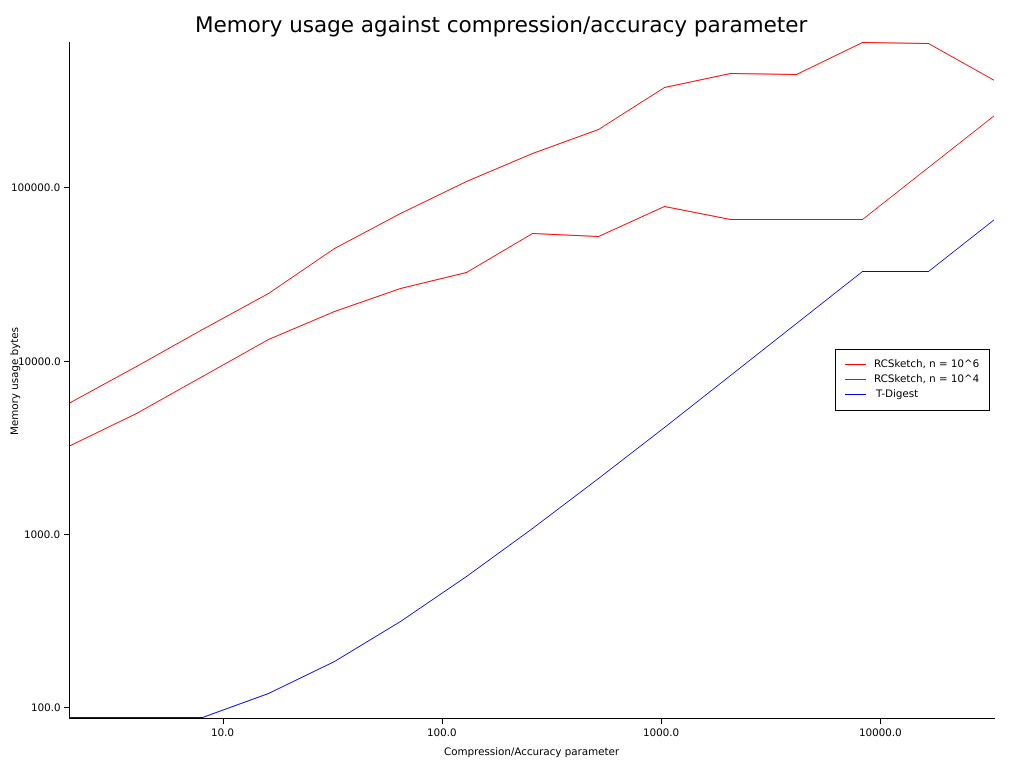
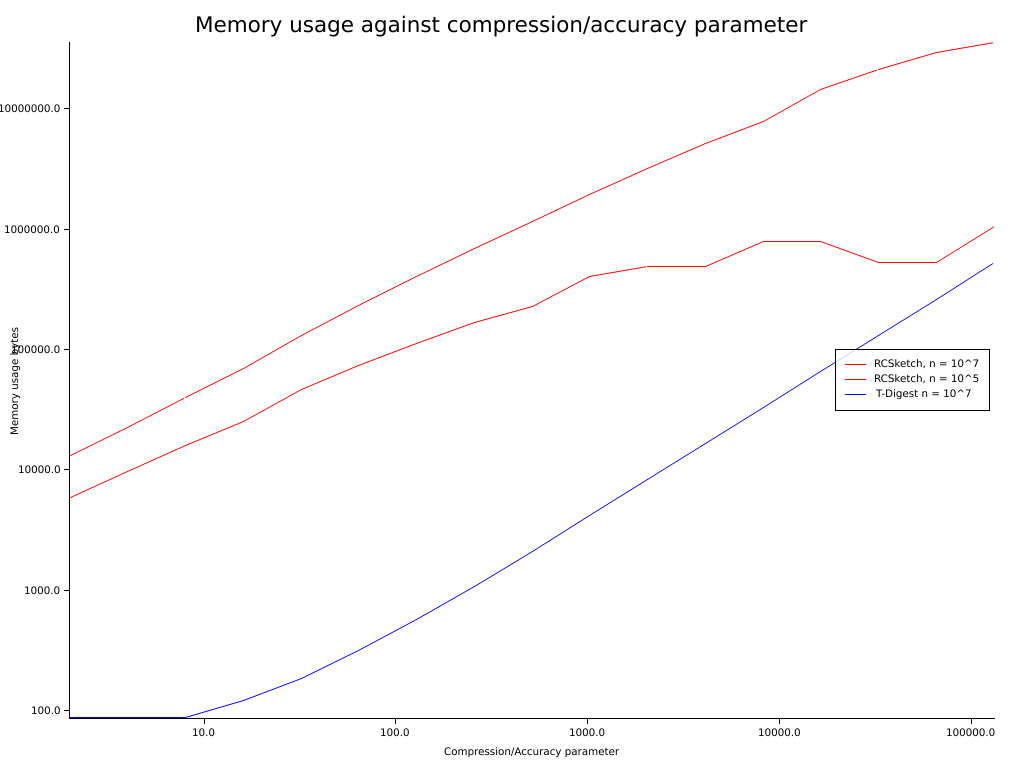
Add average compaction method to rc sketch

diff --git a/src/relative_compactor.rs b/src/relative_compactor.rs
@@ -22,6 +22,12 @@ where
     pub compaction_counters: Vec<u32>,
 }
 
+#[derive(Copy, Debug, Clone)]
+pub enum CompactionMethod {
+    Default,
+    AverageNeighbour,
+}
+
 impl<F> OwnedSize for RCSketch<F>
 where
     F: Float,
@@ -44,7 +50,7 @@ where
 {
     fn add(&mut self, item: F) {
         // Insert into the bottom buffer
-        self.insert_at_rc(item, 0, false);
+        self.insert_at_rc(item, 0, false, CompactionMethod::Default);
         self.count += 1;
     }
 
@@ -53,7 +59,7 @@ where
         // Insert into the bottom buffer
         items
             .chunks(self.buffer_size)
-            .for_each(|chunk| self.insert_at_rc_batch(chunk, 0, false));
+            .for_each(|chunk| self.insert_at_rc_batch(chunk, 0, false, CompactionMethod::Default));
         // for item in items {
         //     self.insert_at_rc(*item, 0, false);
         // }
@@ -158,7 +164,7 @@ where
         return usize::max(
             (F::from(2.0).unwrap()
                 * F::from(k).unwrap()
-                * F::from(input_length / k).unwrap().log2())
+                * F::from(input_length / k).unwrap().log2().ceil())
             .to_usize()
             .unwrap_or(0),
             2 * k,
@@ -191,7 +197,24 @@ where
         // Insert into the bottom buffer
         items
             .chunks(self.buffer_size)
-            .for_each(|chunk| self.insert_at_rc_batch(chunk, 0, true));
+            .for_each(|chunk| self.insert_at_rc_batch(chunk, 0, true, CompactionMethod::Default));
+        self.count += length;
+    }
+
+    /// Insert items into in the sketch
+    /// * `fast_compaction` Enables faster compaction in exchange for potentially increased error
+    /// * `compaction_method` The method with which to compact the removed elements
+    pub fn add_buffer_custom(
+        &mut self,
+        items: &[F],
+        fast_compaction: bool,
+        compaction_method: CompactionMethod,
+    ) {
+        let length = items.len() as u64;
+        // Insert into the bottom buffer
+        items.chunks(self.buffer_size).for_each(|chunk| {
+            self.insert_at_rc_batch(chunk, 0, fast_compaction, compaction_method)
+        });
         self.count += length;
     }
 
@@ -200,7 +223,14 @@ where
     /// * `item` The item to insert
     /// * `rc_index` The index of the buffer to insert at
     /// * `fast_compaction` Enables faster compaction in exchange for potentially increased error
-    pub fn insert_at_rc(&mut self, item: F, rc_index: usize, fast_compaction: bool) {
+    /// * `compaction_method` The method with which to compact the removed elements
+    pub fn insert_at_rc(
+        &mut self,
+        item: F,
+        rc_index: usize,
+        fast_compaction: bool,
+        compaction_method: CompactionMethod,
+    ) {
         // Create a new buffer if required
         if self.buffers.len() <= rc_index {
             self.buffers.push(Vec::with_capacity(self.buffer_size));
@@ -214,8 +244,13 @@ where
             } else {
                 self.get_compact_index(rc_index)
             };
-            let output_items = self.compact(rc_index, compaction_index);
-            self.insert_at_rc_batch(&output_items, rc_index + 1, fast_compaction);
+            let output_items = self.compact(rc_index, compaction_index, compaction_method);
+            self.insert_at_rc_batch(
+                &output_items,
+                rc_index + 1,
+                fast_compaction,
+                compaction_method,
+            );
             // for item in output_items {
             //     self.insert_at_rc(item, rc_index + 1, fast_compaction);
             // }
@@ -227,7 +262,14 @@ where
     /// * `items` The items to insert
     /// * `rc_index` The index of the buffer to insert at
     /// * `fast_compaction` Enables faster compaction in exchange for potentially increased error
-    pub fn insert_at_rc_batch(&mut self, items: &[F], rc_index: usize, fast_compaction: bool) {
+    /// * `compaction_method` The method with which to compact the removed elements
+    pub fn insert_at_rc_batch(
+        &mut self,
+        items: &[F],
+        rc_index: usize,
+        fast_compaction: bool,
+        compaction_method: CompactionMethod,
+    ) {
         // Create a new buffer if required
         if self.buffers.len() <= rc_index {
             self.buffers.push(Vec::with_capacity(self.buffer_size));
@@ -242,8 +284,13 @@ where
             } else {
                 self.get_compact_index(rc_index)
             };
-            let output_items = self.compact(rc_index, compaction_index);
-            self.insert_at_rc_batch(&output_items, rc_index + 1, fast_compaction);
+            let output_items = self.compact(rc_index, compaction_index, compaction_method);
+            self.insert_at_rc_batch(
+                &output_items,
+                rc_index + 1,
+                fast_compaction,
+                compaction_method,
+            );
             // for item in output_items {
             //     self.insert_at_rc(item, rc_index + 1, fast_compaction);
             // }
@@ -254,20 +301,38 @@ where
     /// # Arguments
     /// * `rc_index` Index of the buffer to compact
     /// * `compact_index` Index after which to compact
-    pub fn compact(&mut self, rc_index: usize, compact_index: usize) -> Vec<F> {
+    /// * `compaction_method` The method with which to compact the removed elements
+    pub fn compact(
+        &mut self,
+        rc_index: usize,
+        compact_index: usize,
+        compaction_method: CompactionMethod,
+    ) -> Vec<F> {
         // Sort and extract the largest values
         self.buffers[rc_index].sort_by(|a, b| a.partial_cmp(&b).unwrap());
         let upper = self.buffers[rc_index].split_off(compact_index);
-        let mut rng = rand::thread_rng();
-        let uniform = Uniform::new(0, 2);
-        let chosen_pos = uniform.sample(&mut rng);
-        // Remove half the largest values
-        upper
-            .into_iter()
-            .enumerate()
-            .filter(|(pos, _value)| pos % 2 == chosen_pos)
-            .map(|(_pos, value)| value)
-            .collect()
+
+        match compaction_method {
+            CompactionMethod::Default => {
+                let mut rng = rand::thread_rng();
+                let uniform = Uniform::new(0, 2);
+                let chosen_pos = uniform.sample(&mut rng);
+                // Remove half the largest values
+                upper
+                    .into_iter()
+                    .enumerate()
+                    .filter(|(pos, _value)| pos % 2 == chosen_pos)
+                    .map(|(_pos, value)| value)
+                    .collect()
+            }
+            CompactionMethod::AverageNeighbour => {
+                let mut output = Vec::new();
+                for i in 0..upper.len() / 2 {
+                    output.push((upper[2 * i] + upper[2 * i + 1]) / F::from(2).unwrap());
+                }
+                output
+            }
+        }
     }
 
     /// Estimate the rank of an item in the input set of the sketch

diff --git a/examples/accuracy.rs b/examples/accuracy.rs
@@ -1,4 +1,4 @@
-use approximate_quantiles::relative_compactor::RCSketch;
+use approximate_quantiles::relative_compactor::{CompactionMethod, RCSketch};
 use approximate_quantiles::t_digest::{scale_functions, t_digest::TDigest};
 use approximate_quantiles::traits::{Digest, OwnedSize};
 use approximate_quantiles::util::linear_digest::LinearDigest;
@@ -481,6 +481,13 @@ where
             digest
         }
     };
+    let create_compact_avg_rcsketch = |accuracy_param: T| {
+        move |dataset: &[T]| {
+            let mut digest = RCSketch::new(dataset.len(), accuracy_param.to_usize().unwrap());
+            digest.add_buffer_custom(dataset, false, CompactionMethod::AverageNeighbour);
+            digest
+        }
+    };
 
     let create_t_digest = |compression_param: T| {
         move |dataset: &[T]| {
@@ -533,6 +540,26 @@ where
     let mut s = Vec::new();
     for i in &[1e-5, 1e-4, 1e-3, 1e-2, 1e-1] {
         let accuracy_measurements = sample_digest_accuracy(
+            create_compact_avg_rcsketch(rcsketch_param),
+            || gen_uniform_tan_vec(input_size),
+            test_func(T::from(*i).unwrap()),
+            |a, b| relative_error(a, b) * T::from(1e6).unwrap(),
+            100,
+        )
+        .unwrap();
+        s.push((T::from(*i).unwrap(), accuracy_measurements));
+    }
+
+    series.push(Line {
+        name: format!("RC Sketch avg compaction ({} bytes)", rc_sketch_mem_size),
+        datapoints: s,
+        colour: &YELLOW,
+        marker: None,
+    });
+
+    let mut s = Vec::new();
+    for i in &[1e-5, 1e-4, 1e-3, 1e-2, 1e-1] {
+        let accuracy_measurements = sample_digest_accuracy(
             create_t_digest(t_digest_param),
             || gen_uniform_tan_vec(input_size),
             test_func(T::from(*i).unwrap()),
@@ -571,6 +598,14 @@ where
         move |dataset: &[T]| {
             let mut digest = RCSketch::new(dataset.len(), accuracy_param.to_usize().unwrap());
             digest.add_buffer(dataset);
+            digest
+        }
+    };
+
+    let create_compact_avg_rcsketch = |accuracy_param: T| {
+        move |dataset: &[T]| {
+            let mut digest = RCSketch::new(dataset.len(), accuracy_param.to_usize().unwrap());
+            digest.add_buffer_custom(dataset, false, CompactionMethod::AverageNeighbour);
             digest
         }
     };
@@ -626,6 +661,26 @@ where
         name: format!("RCSketch ({} bytes)", rc_sketch_mem_size),
         datapoints: s,
         colour: &RED,
+        marker: None,
+    });
+
+    let mut s = Vec::new();
+    for i in &test_values {
+        let accuracy_measurements = sample_digest_accuracy(
+            create_compact_avg_rcsketch(rcsketch_param),
+            || gen_uniform_exp_vec(input_size, T::from(1.0).unwrap()),
+            test_func(T::from(*i).unwrap()),
+            |a, b| relative_error(a, b) * T::from(1e6).unwrap(),
+            100,
+        )
+        .unwrap();
+        s.push((T::from(*i).unwrap(), accuracy_measurements));
+    }
+
+    series.push(Line {
+        name: format!("RCSketch avg compaction ({} bytes)", rc_sketch_mem_size),
+        datapoints: s,
+        colour: &YELLOW,
         marker: None,
     });
 
@@ -898,29 +953,12 @@ where
     };
 
     let mut series = Vec::new();
-    let comp_params: Vec<u32> = (1..16).map(|x| 1 << x).collect();
+    let comp_params: Vec<u32> = (1..18).map(|x| 1 << x).collect();
     let mut s = Vec::new();
     for comp_param in &comp_params {
-        let x = create_rcsketch(&gen_uniform_vec(100_000), T::from(*comp_param).unwrap());
-        println!("{}", x.owned_size());
-        s.push((
-            T::from(*comp_param).unwrap(),
-            vec![T::from(x.owned_size()).unwrap()],
-        ));
-    }
-
-    series.push(Line {
-        name: "RCSketch, n = 10^6".to_string(),
-        datapoints: s,
-        colour: &RED,
-        marker: None,
-    });
-
-    let mut s = Vec::new();
-    for comp_param in &comp_params {
-        let x = create_rcsketch(&gen_uniform_vec(10000), T::from(*comp_param).unwrap());
+        let x = create_rcsketch(&gen_uniform_vec(10_000_000), T::from(*comp_param).unwrap());
         println!(
-            "RC Digest with param {}: {} bytes",
+            "RC Digest n 10^7 with param {}: {} bytes",
             comp_param,
             x.owned_size()
         );
@@ -931,7 +969,7 @@ where
     }
 
     series.push(Line {
-        name: "RCSketch, n = 10^4".to_string(),
+        name: "RCSketch, n = 10^7".to_string(),
         datapoints: s,
         colour: &RED,
         marker: None,
@@ -939,7 +977,28 @@ where
 
     let mut s = Vec::new();
     for comp_param in &comp_params {
-        let x = create_t_digest(&gen_uniform_vec(100_000), T::from(*comp_param).unwrap());
+        let x = create_rcsketch(&gen_uniform_vec(100_000), T::from(*comp_param).unwrap());
+        println!(
+            "RC Digest n 10^5 with param {}: {} bytes",
+            comp_param,
+            x.owned_size()
+        );
+        s.push((
+            T::from(*comp_param).unwrap(),
+            vec![T::from(x.owned_size()).unwrap()],
+        ));
+    }
+
+    series.push(Line {
+        name: "RCSketch, n = 10^5".to_string(),
+        datapoints: s,
+        colour: &RED,
+        marker: None,
+    });
+
+    let mut s = Vec::new();
+    for comp_param in &comp_params {
+        let x = create_t_digest(&gen_uniform_vec(10_000_000), T::from(*comp_param).unwrap());
         println!(
             "T digest with param {}: {} bytes",
             comp_param,
@@ -952,7 +1011,7 @@ where
     }
 
     series.push(Line {
-        name: "T-Digest".to_string(),
+        name: "T-Digest n = 10^7".to_string(),
         datapoints: s,
         colour: &BLUE,
         marker: None,
@@ -992,12 +1051,13 @@ where
     if actual == T::from(0.0).unwrap() {
         return measured.abs();
     }
-    // println!(
-    //     "Error {} {} {}",
-    //     measured.to_f64().unwrap(),
-    //     actual.to_f64().unwrap(),
-    //     ((measured - actual).abs() / actual.abs()).to_f64().unwrap()
-    // );
+    println!(
+        "Error {} {} {} {}",
+        measured.to_f64().unwrap(),
+        actual.to_f64().unwrap(),
+        (measured - actual).to_f64().unwrap(),
+        ((measured - actual).abs() / actual.abs()).to_f64().unwrap()
+    );
     (measured - actual).abs() / actual.abs()
 }
 
@@ -1007,7 +1067,7 @@ fn main() {
     // determine_required_parameter::<f32>();
     // determine_required_parameter::<f64>();
     // plot_error_against_mem_usage::<f32>();
-    plot_error_against_input_size::<f32>();
+    // plot_error_against_input_size::<f32>();
     plot_memory_usage_against_compression_parameter::<f32>();
     println!("Complete");
 }

diff --git a/src/buffered_digest.rs b/src/buffered_digest.rs
@@ -19,7 +19,7 @@ where
 {
     fn owned_size(&self) -> usize {
         std::mem::size_of::<Self>()
-            + std::mem::size_of::<F>() * self.buffer.len()
+            + std::mem::size_of::<F>() * self.buffer.capacity()
             + (self.digest.owned_size() - std::mem::size_of::<T>()) // Don't count the size of the digest twice.
     }
 }
